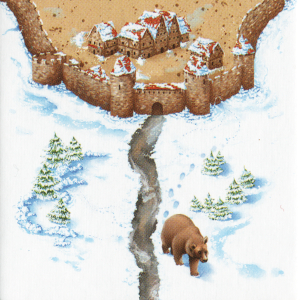
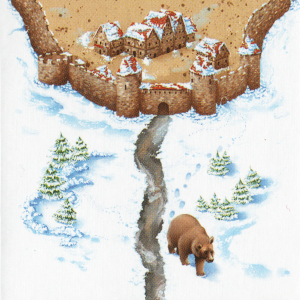
polygons defined for all winter tiles

diff --git a/future.md b/future.md
@@ -2,9 +2,8 @@
 
 ## Done in current dev
 
-* undo is possible also for bridge placements (and also for a tile which forced bridge placement) (#170)
-* fix #174: undo placement of a tile with tower base crash game
-* fix #177: apostrophes in translations are not shown
+* winter theme
+* fixed few winter extra tiles definitions to match original winter tiles
 
 ## Roadmap
 
